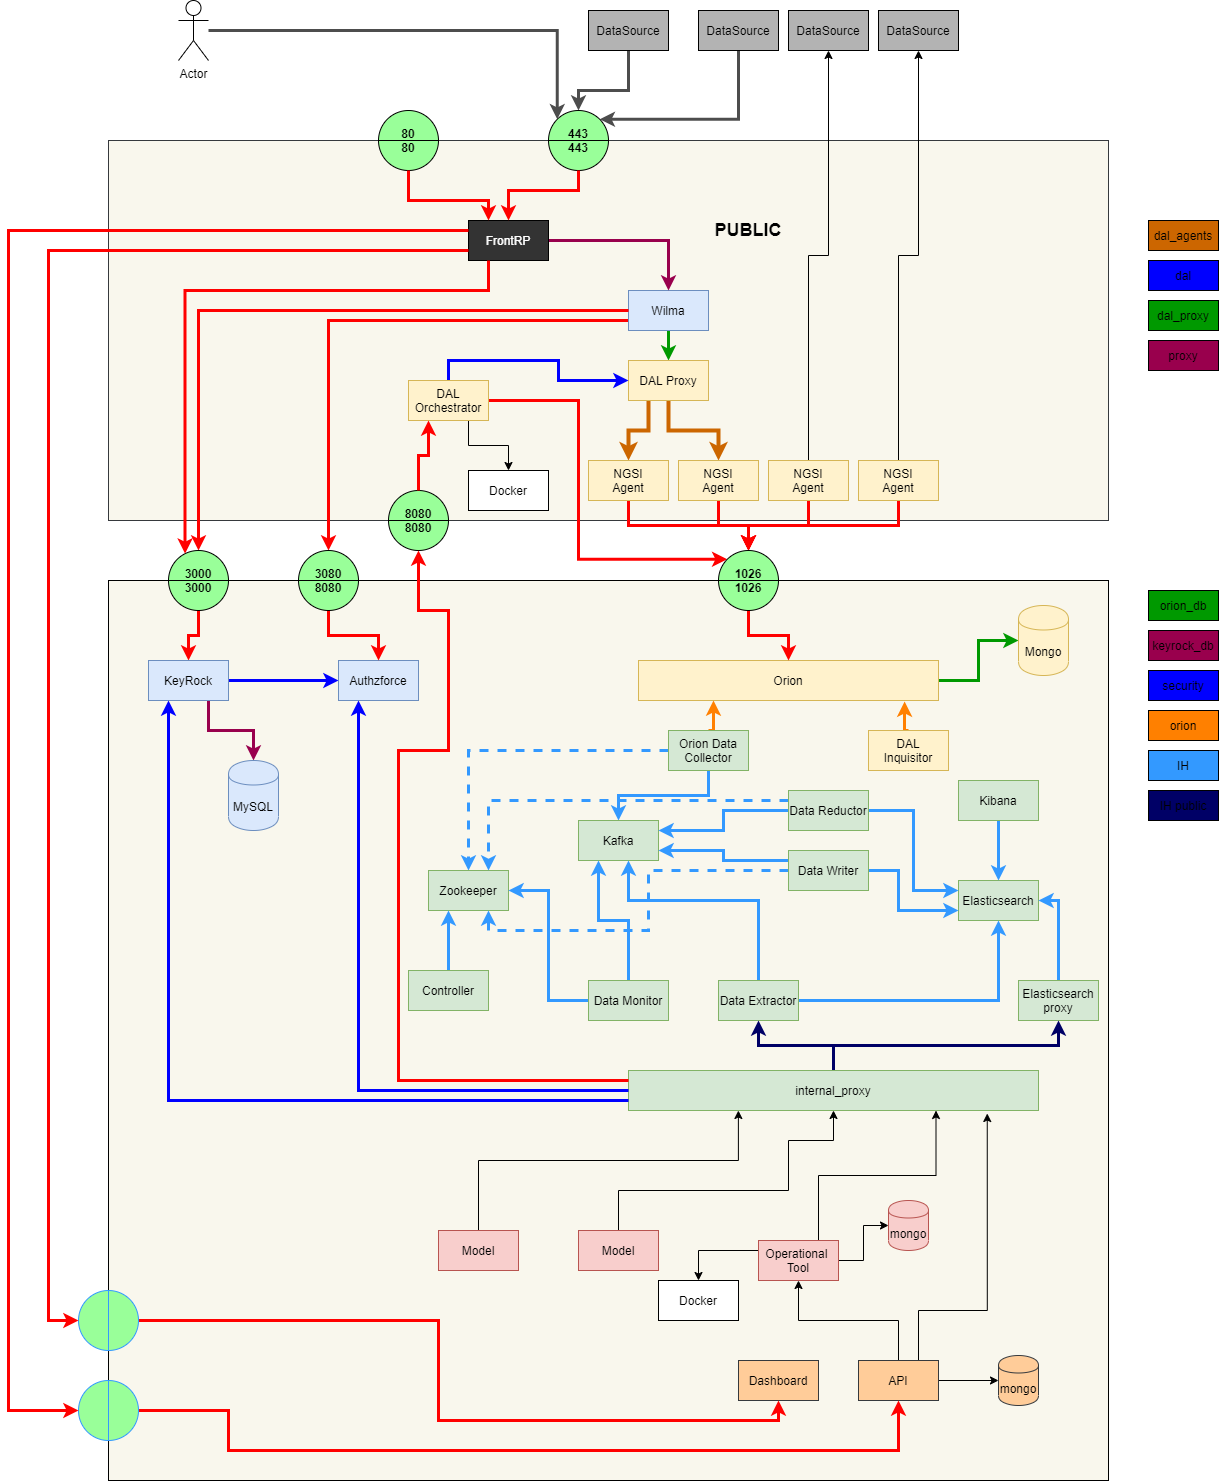
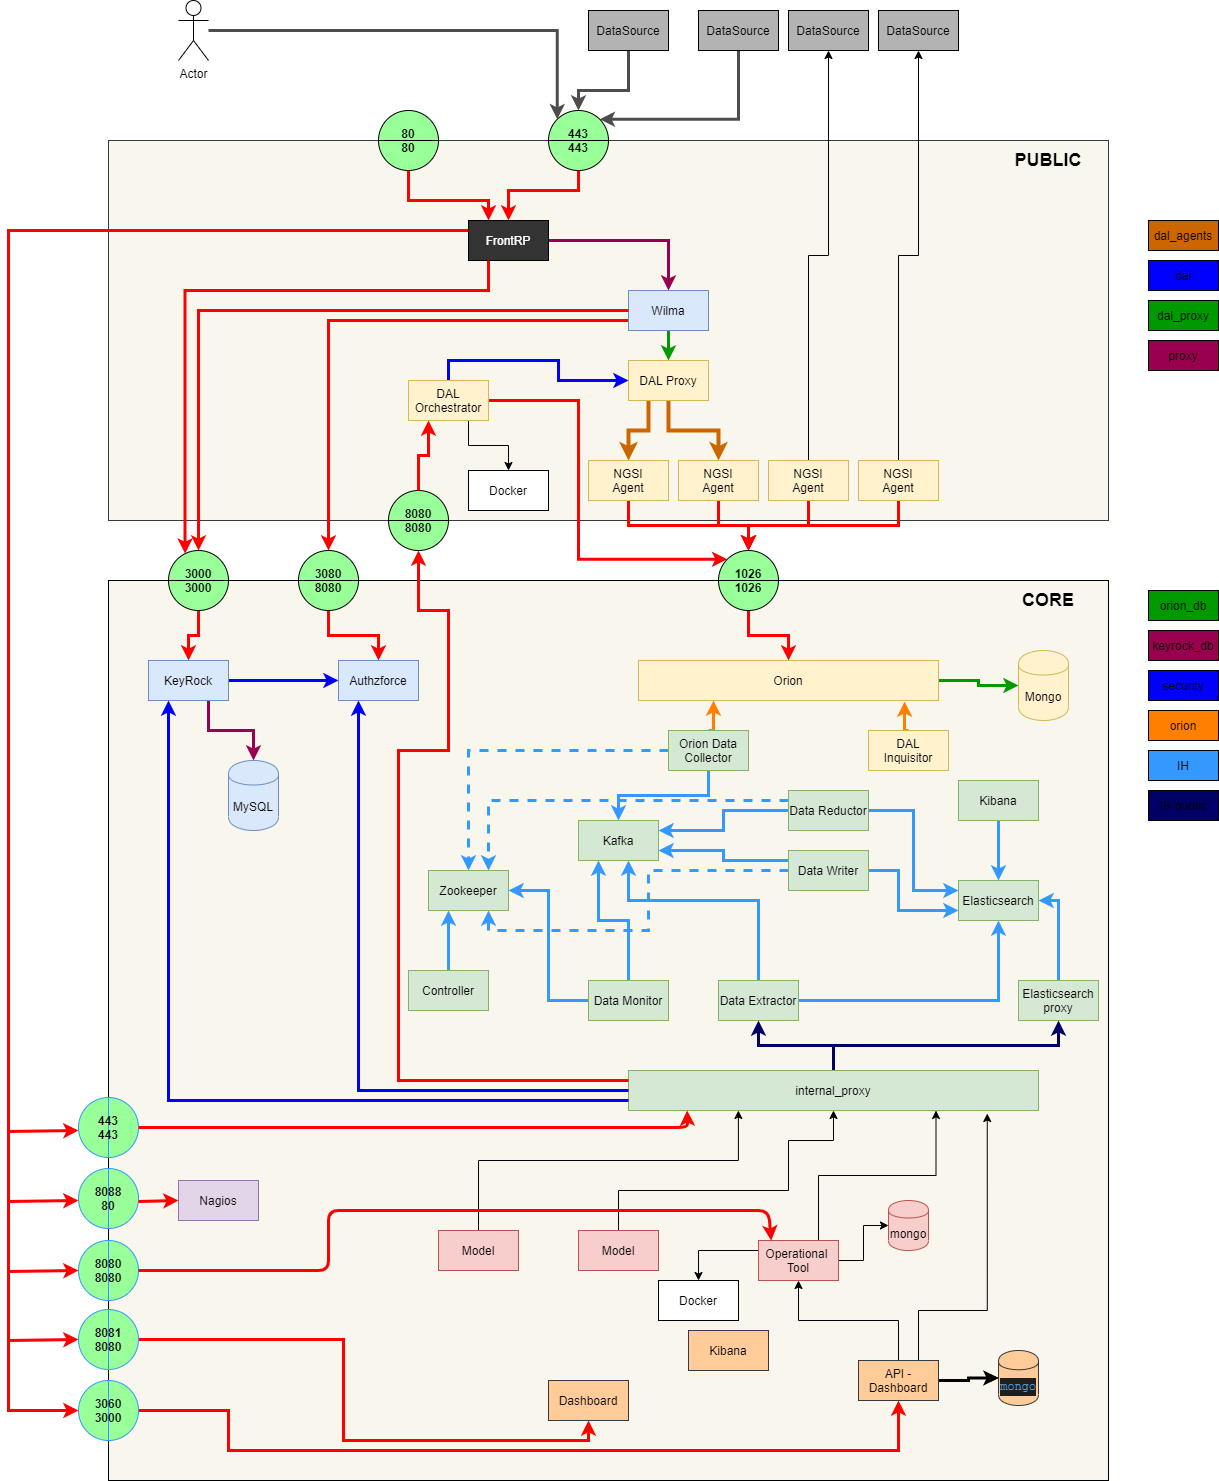
Added information to the installation guide and added nginx configuration needed

diff --git a/docker/core/dashboard/pixel-api/src/config/config.js b/docker/core/dashboard/pixel-api/src/config/config.js
@@ -1,4 +1,6 @@
 const config = {};
+const fs = require('fs'); 
+const ADMIN_SECRET_FILE = fs.readFileSync(process.env.ADMIN_SECRET_FILE, {encoding:'utf8', flag:'r'}); 
 
 config.LOGS_DIR = process.env.LOGS_DIR || 'logs';
 config.PORT = process.env.PORT || 3000;
@@ -18,7 +20,7 @@ config.fiware = {};
 config.fiware.IDM_URL = process.env.IDM_URL || 'https://id.pixel-ports.eu';
 config.fiware.KEYROCK_CLIENT_ID =
   process.env.KEYROCK_CLIENT_ID || '820c5bce-b85f-465f-8523-2926b27c10d7';
-config.fiware.ADMIN_SECRET = process.env.ADMIN_SECRET || 'admin';
+config.fiware.ADMIN_SECRET = ADMIN_SECRET_FILE || 'admin';
 config.fiware.ADMIN_EMAIL = process.env.ADMIN_EMAIL || 'admin@pixel-ports.eu';
 
 /**

diff --git a/docker/core/README.md b/docker/core/README.md
@@ -238,6 +238,43 @@ Inquisitor      .............   Done
 ```
 
 
+
+#### Dashboard config
+
+Now you must create the OAUTH APP, the user and roles that will use the dashboard. This has to be done manually for now, it is expected to be automated in the future. To create these applications you must access to KeyRock so you can access directly if you have access to the IP and KeyRock port of the CORE machine or if not you must start and finish the installation of [Public Components](../public/README.md) and continue here (this way we can access to https://id.EXAMPLE.pixel-ports.eu and create the dashboard configuration correctly)
+
+1 - We created the new application from the KeyRock interface
+
+![1](../../dashboard-config-1.png)
+
+2 - We fill out the form as shown in the image substituting our domain
+
+![2](../../dashboard-config-2.png)
+
+3 - We give you to add roles
+
+![3](../../dashboard-config-3.png)
+
+4 - We add the roles `viewer` and `admin` 
+
+![4](../../dashboard-config-4.png)
+
+5 - We create the admin user for the API and give him administration permissions
+
+![5](../../dashboard-config-5.png)
+
+![5.2](../../dashboard-config-5.2.png)
+
+6 - We set the client OAUTH as you see in the image and note Client_ID and Client_SECRET
+
+![6](../../dashboard-config-6.png)
+
+7 - We added the admin user to the app with all roles
+
+![7](../../dashboard-config-7.png)
+
+Edit `.env` again with the client_ID and CLient_KEY from step 6 and the user PIXEL_DASHBOARD_ADMIN_EMAIL from step 5. Edit `./secrets/dashboard.admin.secret` with the password from step 5 and run `./build.sh` and `./install.sh`
+
 # Update the host
 
 The process is simple
